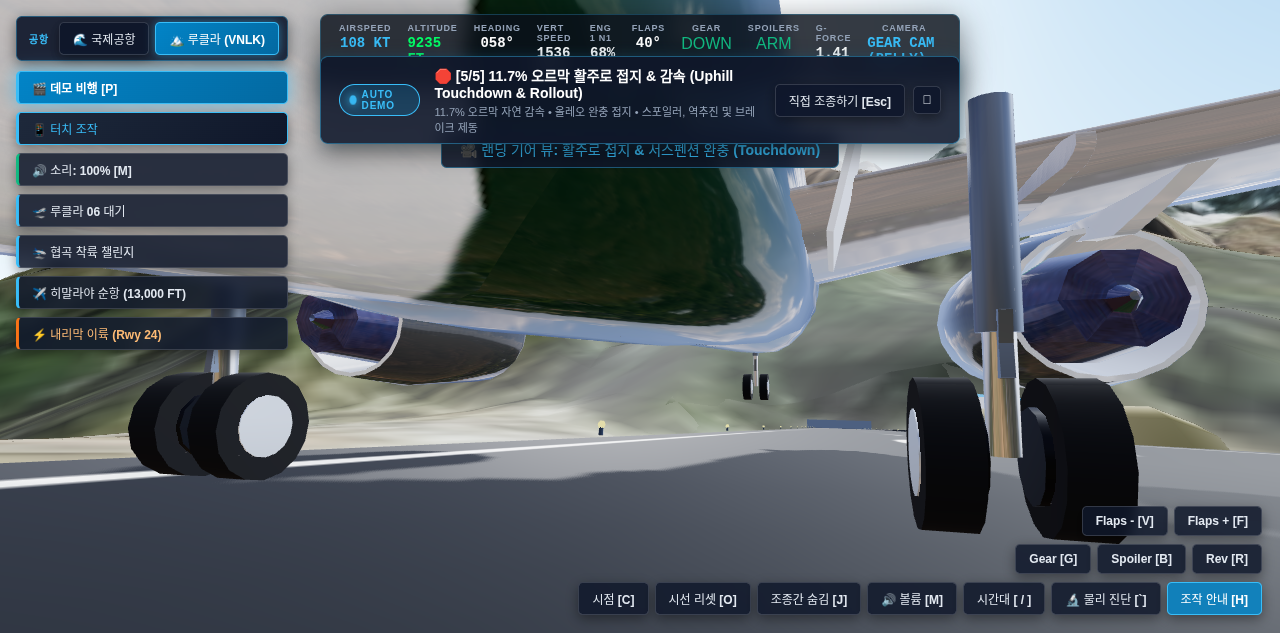
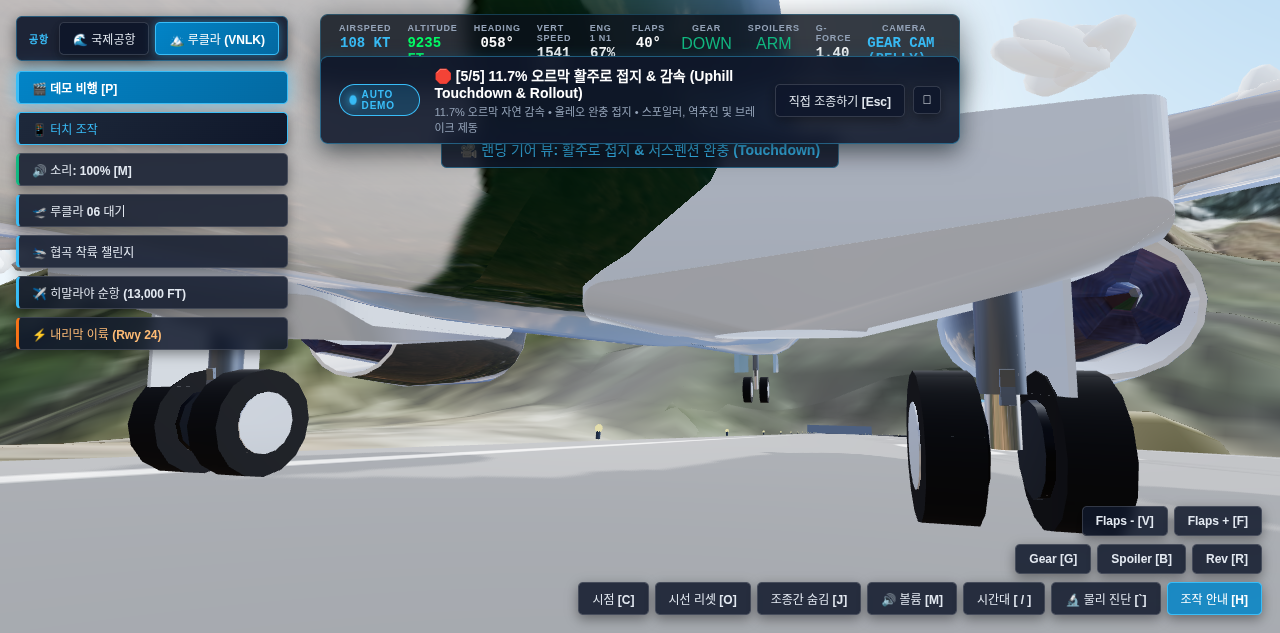
test(flight): validate trimmed landing and refresh latest-main acceptance

diff --git a/scripts/test-flight-agent.js b/scripts/test-flight-agent.js
@@ -508,74 +508,77 @@ class FlightTestAgent {
 
     await this.ensureSimulatorReady();
 
-    // Preset short final: 0.3 NM out (x = -1900m, alt = 42m / 138ft)
+    // Start in an already configured, trimmed short final. The old fixture
+    // spawned at 2deg pitch with flaps still travelling, then reduced elevator
+    // during flare; the new contact model correctly rejects that nose impact.
     await this.eval(`
-      window.simulator.controls.clearVirtualInputs();
-      window.simulator.position.set(-1900, 42, 0);
-      window.simulator.linearVelocity.set(68, -2.6, 0); // 132 knots descending
-      window.simulator.angularVelocity.set(0, 0, 0);
-      window.simulator.quaternion.setFromEuler(new window.THREE.Euler(window.THREE.MathUtils.degToRad(2.0), -Math.PI * 0.5, 0, 'YXZ'));
-      window.simulator.aircraft.group.position.copy(window.simulator.position);
-      window.simulator.aircraft.group.quaternion.copy(window.simulator.quaternion);
-      window.simulator.aircraft.group.updateMatrixWorld(true);
-      window.simulator.controls.setVirtualInput('throttle', 0.45);
-      window.simulator.engines.setThrottle(0.45);
-      window.simulator.gear.setGearTarget(true);
-      window.simulator.gear.gearState = 1.0;
-      window.simulator.aero.setFlapPosition(5); // Flaps 30
-      window.simulator.aero.pitchTrim = 5.5;
-      window.simulator.cameraSystem.setMode(1);
-      window.simulator.cameraSystem.snapToTarget(window.simulator.aircraft.group);
+      (() => {
+        const sim = window.simulator;
+        sim.setPreset('approach');
+        sim.controls.setParkingBrake(false);
+        sim.position.set(-1900, 42, 0);
+        sim.linearVelocity.set(68, -2.6, 0);
+        sim.angularVelocity.set(0, 0, 0);
+        sim.quaternion.setFromEuler(new window.THREE.Euler(window.THREE.MathUtils.degToRad(5.8), -Math.PI * 0.5, 0, 'YXZ'));
+        sim.aircraft.group.position.copy(sim.position);
+        sim.aircraft.group.quaternion.copy(sim.quaternion);
+        sim.aircraft.group.updateMatrixWorld(true);
+        sim.gear.setGearTarget(true);
+        sim.gear.gearState = 1;
+        sim.aero.setFlapPosition(6);
+        sim.aero.currentFlapAngle = 40;
+        sim.controls.pitchTrim = 5.5;
+        sim.aero.pitchTrim = 5.5;
+        sim.controls.elevator = 0.18;
+        sim.cameraSystem.setMode(1);
+        sim.cameraSystem.snapToTarget(sim.aircraft.group);
+        const original = sim.integratePhysics.bind(sim);
+        const pilot = { contact: false, pitch: null };
+        sim.integratePhysics = function(dt) {
+          const guidance = this.demoDirector.luklaScenario;
+          guidance.flyBank(0, this.telemetry);
+          this.controls.setVirtualInput('rudder', 0);
+          if (!pilot.contact && !this.gear.onGround) {
+            const height = this.position.y - this.currentTerrain.getHeight(this.position.x, this.position.z);
+            const descent = Math.max(-2.6, Math.min(-0.5, -(height - 3.9) * 0.35));
+            guidance.flyVerticalPath(descent, 132, this.telemetry);
+          } else {
+            pilot.contact = true;
+            pilot.pitch ??= this.telemetry.pitchDeg;
+            pilot.pitch = Math.max(0, pilot.pitch - dt * 2);
+            guidance.flyVerticalPath(0, 0, this.telemetry, 0, pilot.pitch);
+            const noseDown = this.gear.contacts[0].isGrounded;
+            const reverse = noseDown && this.telemetry.iasKnots > 40;
+            this.aero.spoilers = noseDown ? 1 : 0;
+            this.controls.setVirtualInput('brakes', noseDown ? 1 : 0);
+            this.engines.setReverser(reverse, this.gear.onGround);
+            this.controls.setVirtualInput('throttle', reverse ? 0.85 : 0);
+          }
+          original(dt);
+        };
+        window.restoreCoastalLandingIntegration = () => { sim.integratePhysics = original; };
+      })()
     `);
-    await new Promise(r => setTimeout(r, 600));
 
-    this.log('Tracking final approach down to Runway 09L threshold...', '📐');
-
-    let flareInitiated = false;
+    this.log('Tracking a trimmed final and controlled main/nose-gear touchdown...', '📐');
     let touchdownConfirmed = false;
     let stoppedOnRunway = false;
-
     const initialAnomalies = this.anomalies.length;
-    const history = await this.recordFlight(44, async (state, elapsedSec) => {
-      // Flare at 25 ft AGL
-      if (!flareInitiated && state.radioAltFt <= 25 && state.radioAltFt > 0) {
-        flareInitiated = true;
-        this.log(`Threshold 25 FT AGL: Executing gentle flare & retarding throttle to idle...`, '🛬');
-        await this.eval(`
-          window.simulator.controls.setVirtualInput('elevator', 0.12);
-          window.simulator.controls.setVirtualInput('throttle', 0.0);
-          window.simulator.engines.setThrottle(0.0);
-        `);
-      }
-
-      // Confirm touchdown from wheel contact; CG radio altitude alone is not contact.
-      if (!touchdownConfirmed && (state.onGround || state.touchdown)) {
-        touchdownConfirmed = true;
-        this.log(`TOUCHDOWN CONFIRMED! Radio Alt: ${Math.round(state.radioAltFt)} FT, G-Load: ${state.gForce.toFixed(2)} G`, '🎯');
-        this.log(`Deploying Spoilers, Maximum Brakes, and Reverse Thrust...`, '🛑');
-        await this.eval(`
-          window.simulator.controls.setVirtualInput('elevator', 0.0);
-          window.simulator.controls.setVirtualInput('aileron', 0.0);
-          window.simulator.controls.setVirtualInput('rudder', 0.0);
-          window.simulator.aero.spoilers = 1.0;
-          window.simulator.controls.setVirtualInput('brakes', 1.0);
-          window.simulator.gear.setBrakes(1.0);
-          window.simulator.engines.setReverser(true, true);
-          window.simulator.controls.setVirtualInput('throttle', 0.85); // Reverse thrust spool
-        `);
-      }
-
-      // Check deceleration to safe taxi speed (< 40 knots)
-      if (touchdownConfirmed && !stoppedOnRunway && state.iasKnots < 40) {
-        stoppedOnRunway = true;
-        this.log(`Aircraft safely decelerated on runway! IAS: ${Math.round(state.iasKnots)} KT`, '🏁');
-        // Stow reverse thrust at taxi speed (standard SOP)
-        await this.eval(`
-          window.simulator.engines.setReverser(false, true);
-          window.simulator.controls.setVirtualInput('throttle', 0.0);
-        `);
-      }
-    });
+    let history;
+    try {
+      history = await this.recordFlight(60, async state => {
+        if (!touchdownConfirmed && (state.onGround || state.touchdown)) {
+          touchdownConfirmed = true;
+          this.log(`TOUCHDOWN CONFIRMED! Radio Alt: ${Math.round(state.radioAltFt)} FT`, '🎯');
+        }
+        if (touchdownConfirmed && !stoppedOnRunway && state.iasKnots < 40 && !state.isCrashed) {
+          stoppedOnRunway = true;
+          this.log(`Aircraft safely decelerated on runway! IAS: ${Math.round(state.iasKnots)} KT`, '🏁');
+        }
+      });
+    } finally {
+      await this.eval('window.restoreCoastalLandingIntegration()');
+    }
 
     const passed = touchdownConfirmed && stoppedOnRunway && history.length > 0 && history.every(s => !s.isCrashed);
     const forceScreenshot = !passed || (this.anomalies.length > initialAnomalies);
@@ -583,8 +586,8 @@ class FlightTestAgent {
     const scenarioDurationMs = performance.now() - scenarioStart;
     const perf = {
       realDurationSec: parseFloat((scenarioDurationMs / 1000).toFixed(2)),
-      simulatedDurationSec: 44.0,
-      speedRatio: parseFloat((44.0 / (scenarioDurationMs / 1000)).toFixed(2)),
+      simulatedDurationSec: 60.0,
+      speedRatio: parseFloat((60.0 / (scenarioDurationMs / 1000)).toFixed(2)),
       steppingTimeSec: parseFloat(((history.performance?.steppingTimeMs || 0) / 1000).toFixed(2)),
       screenshotTimeSec: parseFloat((shot.durationMs / 1000).toFixed(2)),
       steps: history.performance?.steps || 0,

diff --git a/review-artifacts/lukla-physics/README.md b/review-artifacts/lukla-physics/README.md
@@ -1,18 +1,21 @@
 # Lukla physics acceptance
 
-Validated on upstream main `1e4666a` plus this change, using Node 22.23.2 and
+Validated on upstream main `3ca7119` plus this change, using Node 22.23.2 and
 Chrome's Intel Vulkan renderer (identity retained in report.json).
 
 - `npm run check`: pass.
-- `npm test`: 190 tests pass.
+- `npm test`: 207 tests pass.
 - `npm run build`: pass (existing bundle-size advisory).
 - `PORT=5181 npm run test:lukla -- --screenshots`: three full 120 Hz circuits,
-  loaded DEM, zero stall frames, peak contact speed approximately 1.62 m/s,
+  loaded DEM, zero stall frames, peak contact speed approximately 1.61 m/s,
   approximately 87 m of runway remaining, zero drift over the 10-second hold.
 - Negative integrated cases: 20 m/s descent and 7.59 m/s surface-normal uphill
   impact both crash before position correction; manual presets restore 66 t.
 
-The report contains a subsequent run of the same three circuits and integrated
-negative cases. The screenshot shows the first main-gear contact in the first
-visual run. The 43 t demonstration loading and uncalibrated damage-envelope
+The report and screenshot come from the same final visual run. The screenshot
+shows main-gear contact. `flight-regression.json` records five passing general
+flight scenarios (including takeoff, stall recovery, landing, presets/cameras,
+and director handover), with zero anomalies or browser errors. The landing
+fixture now starts trimmed with landing flaps already deployed, uses continuous
+flight controls, and observes 60 seconds to include the full braking sequence. The 43 t demonstration loading and uncalibrated damage-envelope
 limitations are documented in ../../docs/development/lukla-physics.md.
